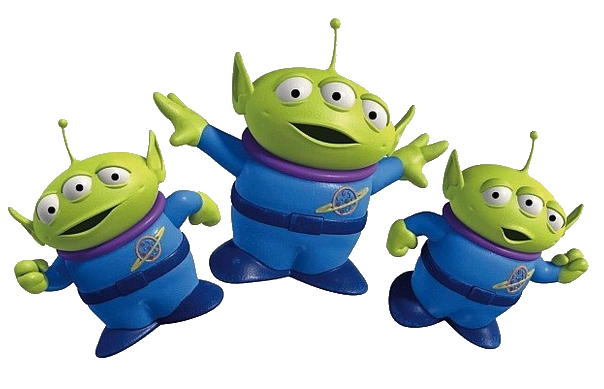
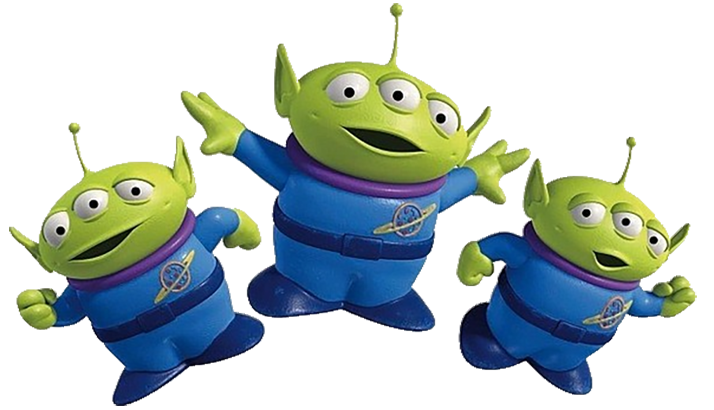
Rework toy list component
Accept toys as params in toy list
Add loading indicator
Restyle toy list
Restyle main page

diff --git a/src/app/toy/toy-list/toy-list.component.scss b/src/app/toy/toy-list/toy-list.component.scss
@@ -1,27 +1,62 @@
-@import '../../../assets/styles/colors.scss';
+@import "../../../assets/styles/colors.scss";
+@import "../../../assets/fonts/fonts.scss";
 
 .toy-list {
     display: flex;
     flex-wrap: wrap;
     justify-content: center;
+    min-height: 300px;
 }
 
 .toy {
     display: flex;
     flex-direction: column;
-    border: 1px solid $gray-dark;
+    width: 223px;
+    border: 1px solid $gray-light;
     margin: 30px 10px;
+    background-color: $white;
+    cursor: pointer;
+
+    &:hover {
+        box-shadow: 0 0 20px 0 rgba(0, 0, 0, 0.1);
+    }
 }
 
 .preview {
-    width: 200px;
-    height: 200px;
-    background-color: $white;
+    width: 223px;
+    height: 223px;
+    background-image: url('../../../assets/images/preview.jpg');
 }
 
 .description {
     padding: 20px;
     text-align: center;
-    background-color: $white;
-    border-top: 1px solid $gray-dark;
+}
+
+.title {
+    font-size: 14px;
+    white-space: nowrap;
+    overflow: hidden;
+    text-overflow: ellipsis;
+}
+
+.price {
+    font-family: $chalkduster;
+    font-size: 24px;
+    color: $buttercup;
+}
+
+.no-toys {
+    text-transform: uppercase;
+    align-self: center;
+    color: $gray-dark;
+    font-size: 20px;
+}
+
+.loading {
+    background-image: url("../../../assets/images/loading.gif");
+    width: 180px;
+    height: 135px;
+    background-size: cover;
+    align-self: center;
 }

diff --git a/src/app/toy/toy-dashboard/toy-dashboard.component.ts b/src/app/toy/toy-dashboard/toy-dashboard.component.ts
@@ -1,21 +1,26 @@
 import { Component, OnInit } from '@angular/core';
 import { ActivatedRoute, Params, UrlSegment } from '@angular/router';
 
+import { Toy } from '../toy';
+import { ToyService } from '../toy.service';
+
 @Component({
     template: require('./toy-dashboard.component.html'),
     styles: [require('./toy-dashboard.component.scss')],
 })
 export class ToyDashboardComponent implements OnInit {
-    category: string;
-    categoryType: string;
-    constructor(private route: ActivatedRoute) {}
+    toys: Toy[];
+    constructor(private route: ActivatedRoute, private toyService: ToyService) {}
 
     ngOnInit() {
         this.route.url
             .subscribe(urls => {
+                this.toys = null;
                 const [category, categoryType] = urls.map((url: UrlSegment) => url.path);
-                this.category = category;
-                this.categoryType = categoryType;
+
+                this.toyService.getToys(category, categoryType).then(toys => {
+                    this.toys = toys;
+                });
             });
     }
 }

diff --git a/src/app/toy/toy-list/toy-list.component.ts b/src/app/toy/toy-list/toy-list.component.ts
@@ -1,5 +1,4 @@
-import { Component, OnChanges, Input, SimpleChange } from '@angular/core';
-import { Router } from '@angular/router';
+import { Component, Input } from '@angular/core';
 
 import { Toy } from '../toy';
 import { ToyService } from '../toy.service';
@@ -8,19 +7,7 @@ import { ToyService } from '../toy.service';
     selector: 'toy-list',
     template: require('./toy-list.component.html'),
     styles: [require('./toy-list.component.scss')],
-    providers: [ToyService],
 })
-export class ToyListComponent implements OnChanges {
-    @Input() category: string;
-    @Input() categoryType: string;
-
-    toys: Toy[];
-
-    constructor(private toyService: ToyService, private router: Router) {}
-
-    ngOnChanges({ category, categoryType }: { category: SimpleChange, categoryType: SimpleChange }) {
-        this.toyService.getToys(this.category, this.categoryType).then(toys => {
-            this.toys = toys;
-        });
-    }
+export class ToyListComponent {
+    @Input() toys: Toy[];
 }

diff --git a/src/app/main-page/main-page.component.ts b/src/app/main-page/main-page.component.ts
@@ -1,8 +1,21 @@
-import { Component } from '@angular/core';
+import { Component, OnInit } from '@angular/core';
+
+import { Toy } from '../toy/toy';
+import { ToyService } from '../toy/toy.service';
 
 @Component({
     selector: 'main-page',
     template: require('./main-page.component.html'),
     styles: [require('./main-page.component.scss')],
 })
-export class MainPageComponent {}
+export class MainPageComponent implements OnInit {
+    toys: Toy[];
+
+    constructor(private toyService: ToyService) {}
+
+    ngOnInit() {
+        this.toyService.popularToys().then(toys => {
+            this.toys = toys;
+        });
+    }
+}

diff --git a/src/app/toy/toy-list/toy-list.component.html b/src/app/toy/toy-list/toy-list.component.html
@@ -2,8 +2,11 @@
     <div *ngFor="let toy of toys" class="toy">
         <div class="preview"></div>
         <div class="description">
-            <div>{{toy.title}}</div>
-            <div>{{toy.price | currency:'USD':true}}</div>
+            <div class="title" title={{toy.title}}>{{toy.title}}</div>
+            <div class="price">{{toy.price | currency:'USD':true}}</div>
         </div>
     </div>
+
+    <span *ngIf="toys && toys.length === 0" class="no-toys">Unfortunately currently there is no toys in this category</span>
+    <div *ngIf="!toys" class="loading"></div>
 </div>

diff --git a/src/app/toy/toy.module.ts b/src/app/toy/toy.module.ts
@@ -4,6 +4,7 @@ import { CommonModule } from '@angular/common';
 
 import { ToyListComponent } from './toy-list/toy-list.component';
 import { ToyDashboardComponent } from './toy-dashboard/toy-dashboard.component';
+import { ToyService } from './toy.service';
 
 @NgModule({
     imports: [CommonModule],
@@ -15,5 +16,6 @@ import { ToyDashboardComponent } from './toy-dashboard/toy-dashboard.component';
         ToyListComponent,
         ToyDashboardComponent,
     ],
+    providers: [ToyService],
 })
 export class ToyModule {}

diff --git a/src/app/main-page/main-page.component.scss b/src/app/main-page/main-page.component.scss
@@ -10,13 +10,13 @@
 .hero-image {
     background-image: url('../../assets/images/aliens.png');
     background-repeat: no-repeat;
-    width: 595px;
-	height: 365px;
+    width: 714px;
+	height: 410px;
 }
 
 .content {
     position: relative;
-    top: 245px;
+    top: 20px;
     background-color: $white;
     border-radius: 10px;
     display: flex;
@@ -68,6 +68,6 @@ h5 {
 }
 
 .popular-toys {
-    width: 715px;
-    padding: 30px 20px;
+    width: 760px;
+    padding: 30px 0;
 }

diff --git a/server/models/toys.js b/server/models/toys.js
@@ -2,5 +2,12 @@ const db = require('../db');
 
 exports.all = ({ category, categoryType }, done) => {
     const toys = db.get().collection('toys');
+    
     toys.find({ category, categoryType }).toArray(done);
-}
+};
+
+exports.popular = (done) => {
+    const toys = db.get().collection('toys');
+
+    toys.find({ orders: 500 }).limit(6).toArray(done);
+};

diff --git a/src/app/toy/toy.service.ts b/src/app/toy/toy.service.ts
@@ -12,4 +12,10 @@ export class ToyService {
             .toPromise()
             .then(response => response.json() as Toy[]);
     }
+
+    popularToys(): Promise<Toy[]> {
+        return this.http.get('/api/toys/popular')
+            .toPromise()
+            .then(response => response.json() as Toy[]);
+    }
 }

diff --git a/src/app/toy/toy-dashboard/toy-dashboard.component.scss b/src/app/toy/toy-dashboard/toy-dashboard.component.scss
@@ -1,0 +1,12 @@
+@import "../../../assets/styles/colors.scss";
+
+.toy-dashboard {
+    display: flex;
+    justify-content: center;
+}
+
+.content {
+    width: 1000px;
+    border-radius: 10px;
+    background-color: $white;
+}

diff --git a/src/app/toy/toy-dashboard/toy-dashboard.component.html b/src/app/toy/toy-dashboard/toy-dashboard.component.html
@@ -1,1 +1,5 @@
-<toy-list [category]="category" [categoryType]="categoryType"></toy-list>
+<div class="toy-dashboard">
+    <div class="content">
+        <toy-list [toys]="toys"></toy-list>
+    </div>
+</div>

diff --git a/server/controllers/toys.js b/server/controllers/toys.js
@@ -10,4 +10,10 @@ router.get('/', (req, res) => {
     });
 });
 
+router.get('/popular', (req, res) => {
+    Toys.popular((err, toys) => {
+        res.json(toys);
+    });
+});
+
 module.exports = router;
